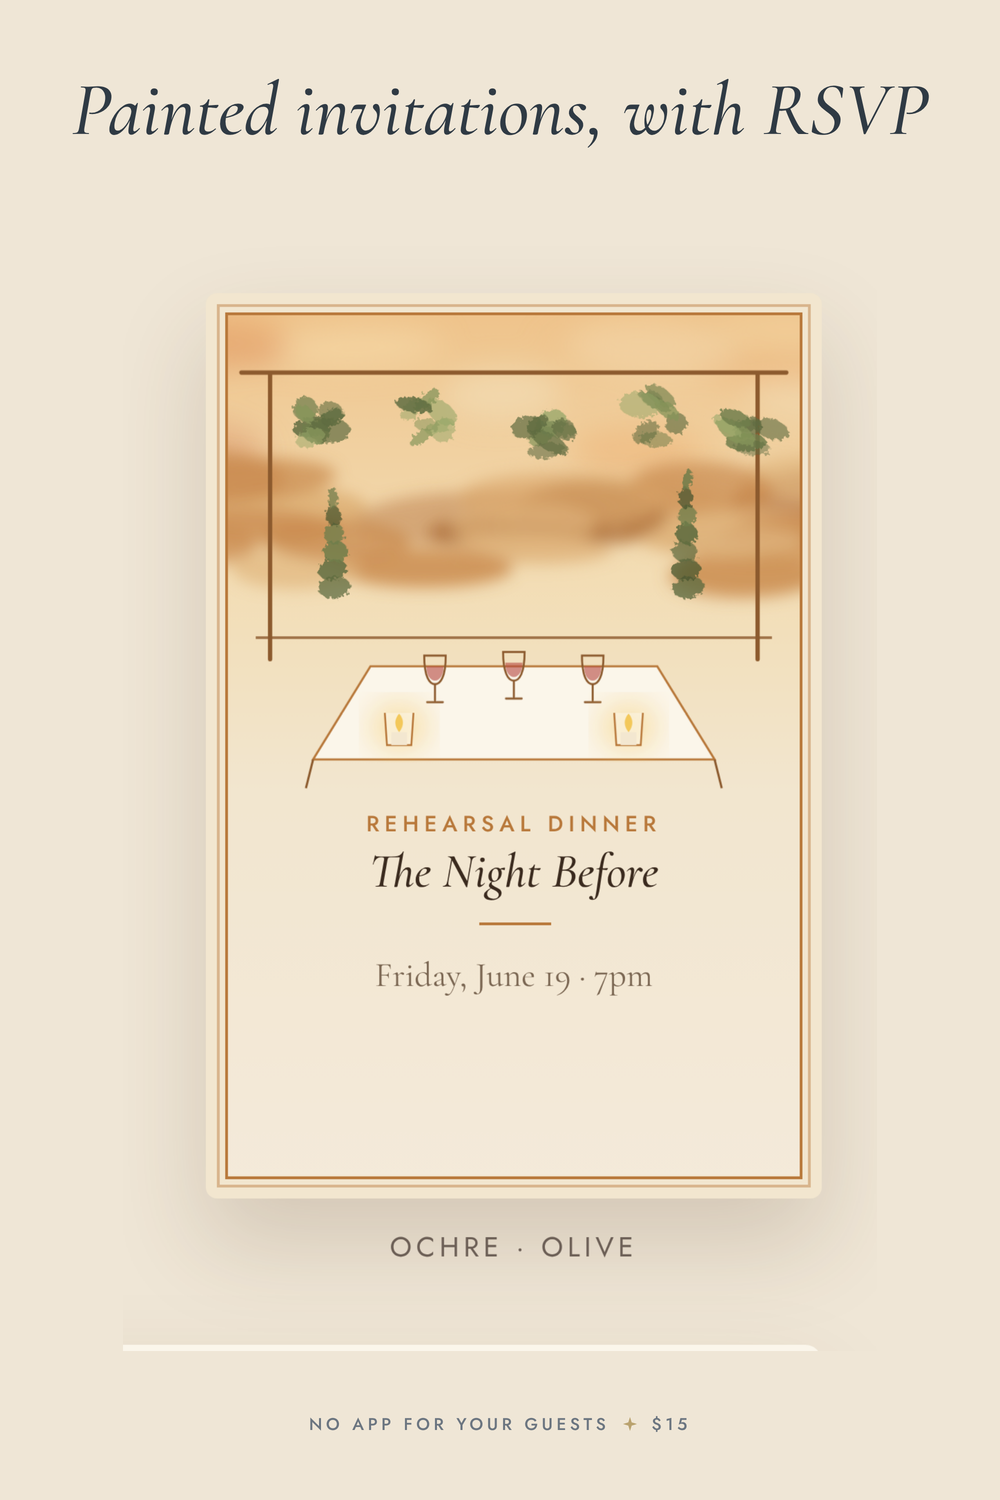
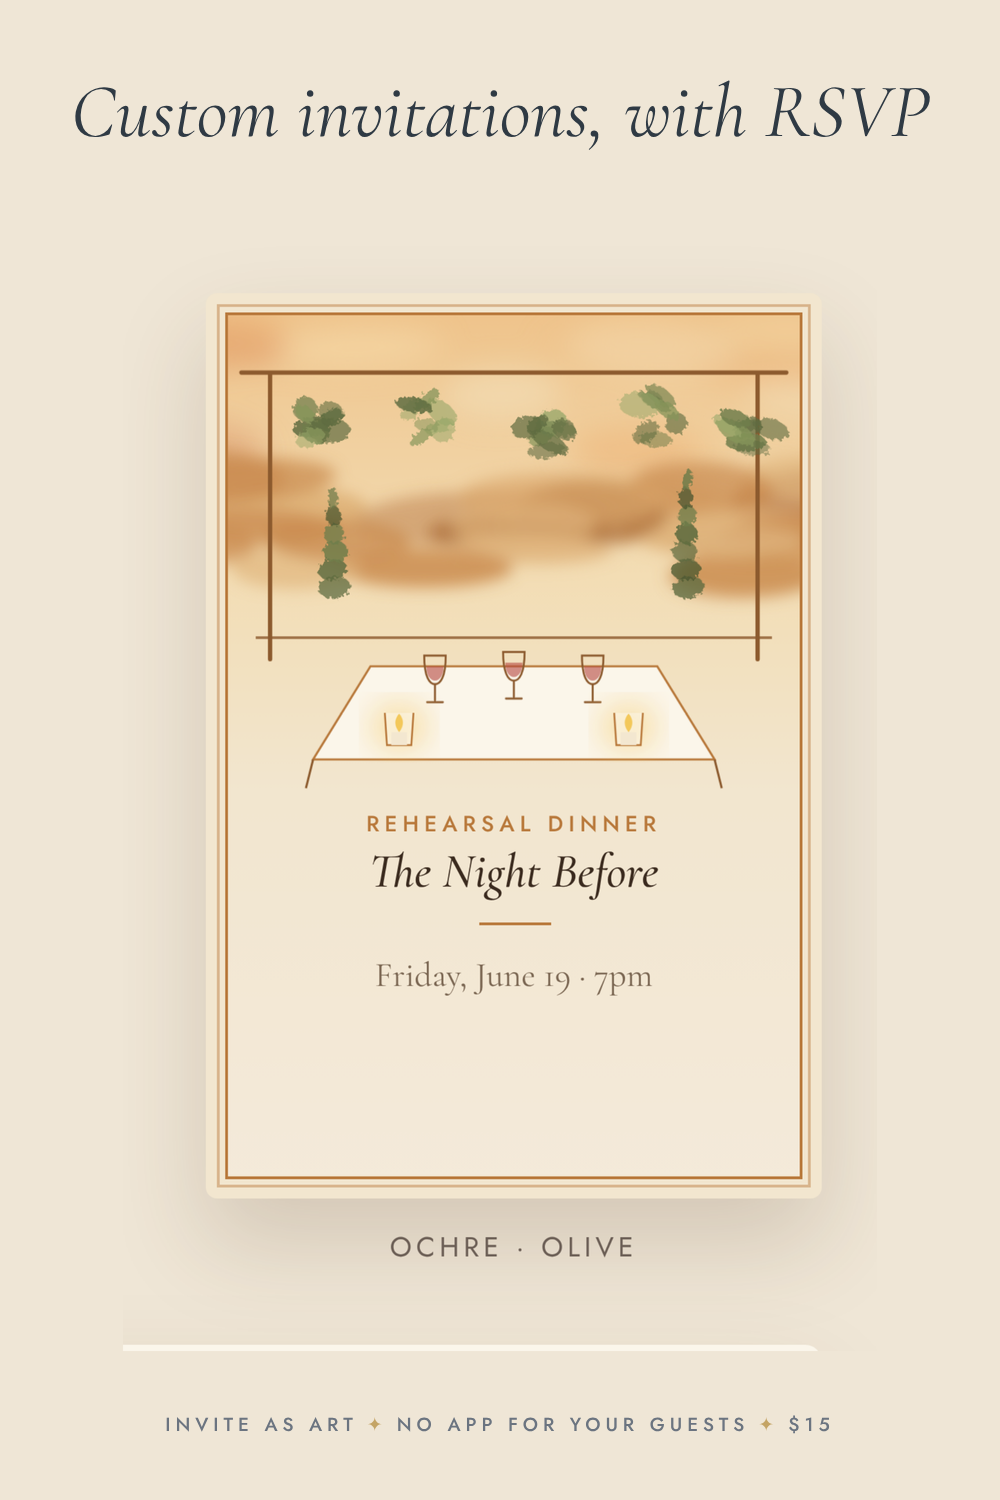
_marketing: Invite as Art wording; rebuilt pins, Etsy 08, new Etsy 09; video pin cover and email GIF
Claude-Session: https://claude.ai/code/session_01PZx2BQgah8N3KLo5pW9qWj

diff --git a/_marketing/upload-checklist.md b/_marketing/upload-checklist.md
@@ -2,12 +2,14 @@
 
 All files are in this folder. Each list below says which file goes where and which settings to pick. Do them in order; none of it needs any technical setup.
 
+Status (Nov 6, 2026): Etsy listing, the 5 image pins, the video pin and the TikTok are all live. Instagram @inviteasart is on hold (new-account login hold). Wording rule: never "painted" — say custom / made to order / designed to your theme / inspired by the art you love.
+
 ## 1. Etsy listing
 
 1. Open Etsy > Shop Manager > Listings > **Add a listing**.
-2. **Photos**: upload the nine PNGs in this order: `etsy-01-hero.png`, `etsy-02-bachelorette.png`, `etsy-03-bridal-shower.png`, `etsy-04-welcome-drinks.png`, `etsy-05-rehearsal-dinner.png`, `etsy-06-rsvp.png`, `etsy-07-thanks.png`, `etsy-08-what-you-get.png`, `etsy-09-why-different.png`. The first one becomes the thumbnail.
+2. **Photos**: upload the nine PNGs in this order: `etsy-01-hero.png`, `etsy-02-bachelorette.png`, `etsy-03-bridal-shower.png`, `etsy-04-welcome-drinks.png`, `etsy-05-rehearsal-dinner.png`, `etsy-06-rsvp.png`, `etsy-07-thanks.png`, `etsy-08-what-you-get.png`, `etsy-09-not-a-template.png`. The first one becomes the thumbnail.
 3. **Video**: upload `etsy-video-1-sample.mp4` (the second clip, `etsy-video-2-cards.mp4`, is a spare; Etsy allows one video per listing, so keep it for Pinterest or Instagram).
-4. **Title**: "Painted party invitation with RSVP, live link in 24 hours, no app for guests".
+4. **Title**: "Custom party invitation with RSVP, inspired by art you love, live link in 24 hours, no app for guests".
 5. **About this listing**: choose **I designed it** ("Designed by" = you), **A finished product**, and **Made to order**.
 6. **Type**: choose **Digital** (not physical). When Etsy asks how you deliver the file, choose **Made to order** so nothing is attached up front; you send the link by message after the buyer fills in the personalization box.
 7. **Description**: paste the ready-to-paste text in the box below.
@@ -15,13 +17,13 @@ All files are in this folder. Each list below says which file goes where and whi
    "Tell me about your party: who it's for, date and time (or 2–3 dates to poll), place, what guests should know, one extra question for guests, and the style you want — your own theme, colors and mood, or an artist, a fashion house or an art style you love"
 9. **Price**: `$15`. Quantity: 999 (digital, made to order).
 10. **Processing time**: **1 day**.
-11. **AI disclosure** (Etsy asks whether AI tools were used; also keep this line in the description): "Designed with AI tools under my creative direction; each invitation is drawn to your description."
-12. **Tags** (13 allowed, pick from): digital invitation, website invitation, invitation with rsvp, bridal shower invitation, bachelorette invitation, rehearsal dinner invitation, garden party invitation, animated invitation, painted invitation, whatsapp invitation, evite alternative, custom invitation, party invite link.
+11. **AI disclosure** (Etsy asks whether AI tools were used; also keep this line in the description): "Designed with AI tools under my creative direction; each invitation is designed to your description."
+12. **Tags** (13 allowed, pick from): digital invitation, website invitation, invitation with rsvp, bridal shower invitation, bachelorette invitation, rehearsal dinner invitation, garden party invitation, animated invitation, art inspired invite, whatsapp invitation, evite alternative, custom invitation, party invite link.
 13. Preview the listing on your phone, then **Publish**.
 
-### Ready-to-paste Etsy description (1,386 characters)
+### Ready-to-paste Etsy description
 
-Painted for you, not picked from a template. Describe your own theme, colors and mood, or name an artist, a fashion house or an art style you love (Monet, Dior, art deco), and your invitation is drawn in that spirit. Every one is one of a kind.
+Made to order for you, not picked from a template. Describe your own theme, colors and mood, or name an artist, a fashion house or an art style you love (Monet, Dior, art deco), and your invitation is designed in that spirit. Every one is one of a kind.
 
 It moves. Petals drift, bubbles rise, wine sways. Canva pages and template invites just sit there.
 
@@ -36,12 +38,12 @@ WHAT'S INCLUDED
 - Optional after-party page (+$10): a thank-you page for the morning after, with settle-up buttons (Venmo, PayPal, Zelle) and the per-person amount filled in
 
 LIVE WITHIN 24 HOURS
-Fill in the personalization box when you order. I draw it, you get the link by Etsy message within 24 hours, and tweaks by email are free.
+Fill in the personalization box when you order. I design it, you get the link by Etsy message within 24 hours, and tweaks by email are free.
 
 PRIVACY
 Guests see the headcount, never the guest list. No ads, no coins, no upsells. $15, flat.
 
-Designed with AI tools under my creative direction; each invitation is drawn to your description.
+Designed with AI tools under my creative direction; each invitation is designed to your description.
 
 ## 2. Pinterest
 
@@ -49,15 +51,14 @@ Designed with AI tools under my creative direction; each invitation is drawn to 
 2. Create a board called **Live party invitations with RSVP**.
 3. Click **Create > Create Pin** and upload `pin-01-bachelorette.png`.
 4. Copy the **Title** and **Description** for that pin from `pins.txt`.
-5. In the **Link** box paste your TinyURL (the short link to your storefront page).
+5. In the **Link** box paste https://tinyurl.com/invite-pin and turn on **AI-modified**.
 6. Choose the board **Live party invitations with RSVP** and click **Publish**.
 7. Repeat steps 3 to 6 for `pin-02-bridal-shower.png`, `pin-03-welcome-drinks.png`, `pin-04-rehearsal-dinner.png` and `pin-05-sample.png`. Spacing them a day apart is fine.
-8. Optional: upload `etsy-video-2-cards.mp4` as a video pin with the title from pin-01 and the same link.
+8. Video pin: upload `etsy-video-2-cards.mp4`, use `pin-video-cover.png` as the cover, and the title/description under VIDEO PIN in `pins.txt`.
 
 ## 3. TikTok / Instagram
 
 1. Send `reel-sample.mp4` to your phone (AirDrop, WhatsApp "send to yourself", or email).
-2. **Instagram**: tap **+** > **Reel**, pick the video, do not add music (the text is already on the video), paste the caption from `reel-caption.txt`, and share.
-3. **TikTok**: tap **+**, upload the same video, paste the caption from `reel-caption.txt`, and post.
-4. Put your TinyURL in the **bio** of both accounts (Instagram: Edit profile > Links; TikTok: Edit profile > Website, available on business accounts). The caption says "Link in bio", so this step matters.
-5. Reply to any comment asking "where?" with the TinyURL.
+2. **Instagram** (@inviteasart): set the bio link to https://tinyurl.com/invite-ig, then tap **+** > **Reel**, pick the video, no music, paste the Instagram caption from `reel-caption.txt`, and share.
+3. **TikTok** (Tiana & Co. account): tap **+**, upload the same video, paste the TikTok caption from `reel-caption.txt` (it spells out tinyurl.com/invite-tt because the Tiana bio links to Tiana), turn on **AI-generated content**, and post. Pin the comment "Order yours (no app for guests): tinyurl.com/invite-tt".
+4. Reply to any comment asking "where?" with the short link.

diff --git a/_marketing/README.md b/_marketing/README.md
@@ -1,12 +1,14 @@
-# Marketing assets (made Nov 4, 2026)
+# Marketing assets (made Nov 4, 2026; reworded to Invite as Art Nov 6)
 
 Not published as web pages (the folder starts with "_"). Use from any session: clone the repo and read this folder.
 
-- etsy-01..09-*.png — Etsy listing photos, 2000x2000 (order: hero, 4 style cards, RSVP, thank-you, what you get, templates vs. this)
+- etsy-01..09-*.png — Etsy listing photos, 2000x2000 (order: hero, 4 style cards, RSVP, thank-you, what you get, "Not a template." five lines)
 - etsy-video-1-sample.mp4 — the sample tapped through, 1080x1080, 13.5 s, silent (Etsy listing video)
 - etsy-video-2-cards.mp4 — the four cards painting in, 1080x1080, 13.4 s, silent (second Etsy video or Instagram)
-- pin-01..05-*.png — Pinterest pins, 1000x1500; pins.txt has a title + description per pin
-- reel-sample.mp4 — vertical 1080x1920, 13.5 s, text burned in; reel-caption.txt
+- pin-01..05-*.png — Pinterest pins, 1000x1500 ("Custom invitations, with RSVP"; footer INVITE AS ART ✦ NO APP FOR YOUR GUESTS ✦ $15); pins.txt has a title + description per pin, plus the video pin
+- pin-video-cover.png — cover frame for the video pin (the four cards)
+- email-cards.gif — 400px animated four-card preview used in the venue emails (live copy at invites/email-cards.gif)
+- reel-sample.mp4 — vertical 1080x1920, 13.5 s, text burned in; reel-caption.txt has the TikTok and Instagram captions
 - upload-checklist.md — Etsy / Pinterest / TikTok steps and the ready-to-paste Etsy description
 
 Source pages: invites/ (storefront) and demo/ (sample). Messaging rules and the five differentiator lines: claude/zero-dollar-test.md and claude/style-guide.md in the Party Hosting HQ project.
